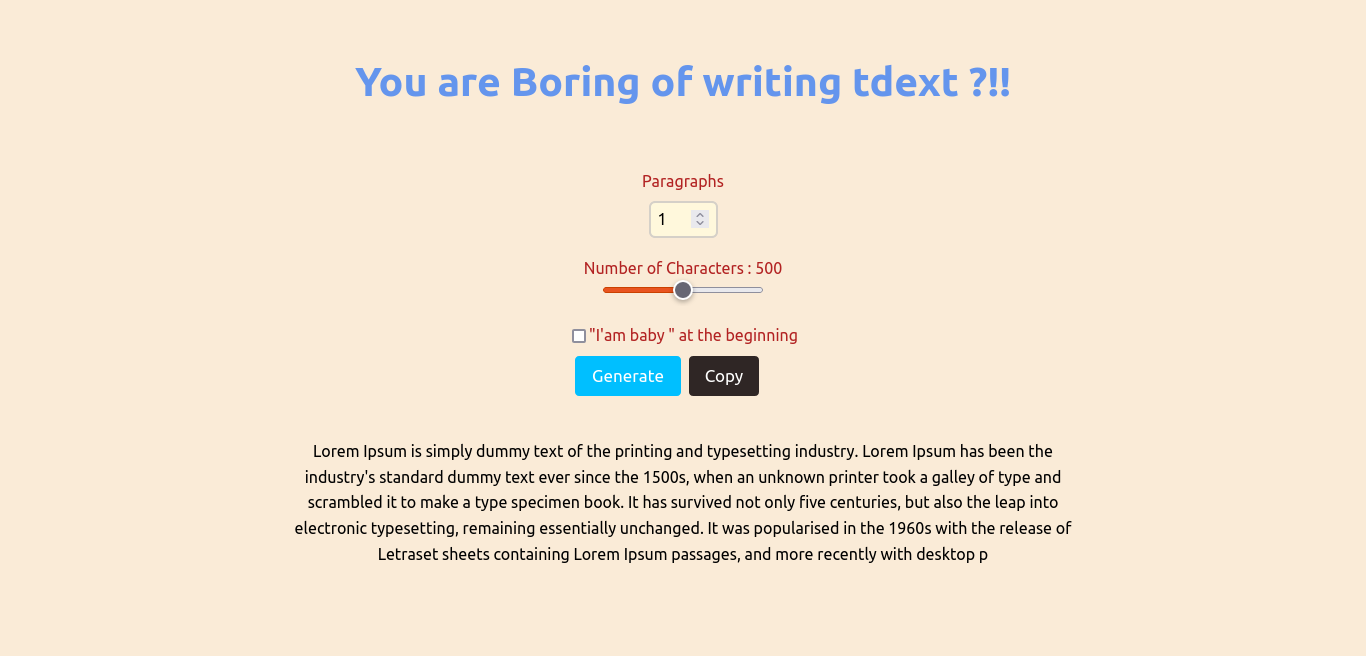
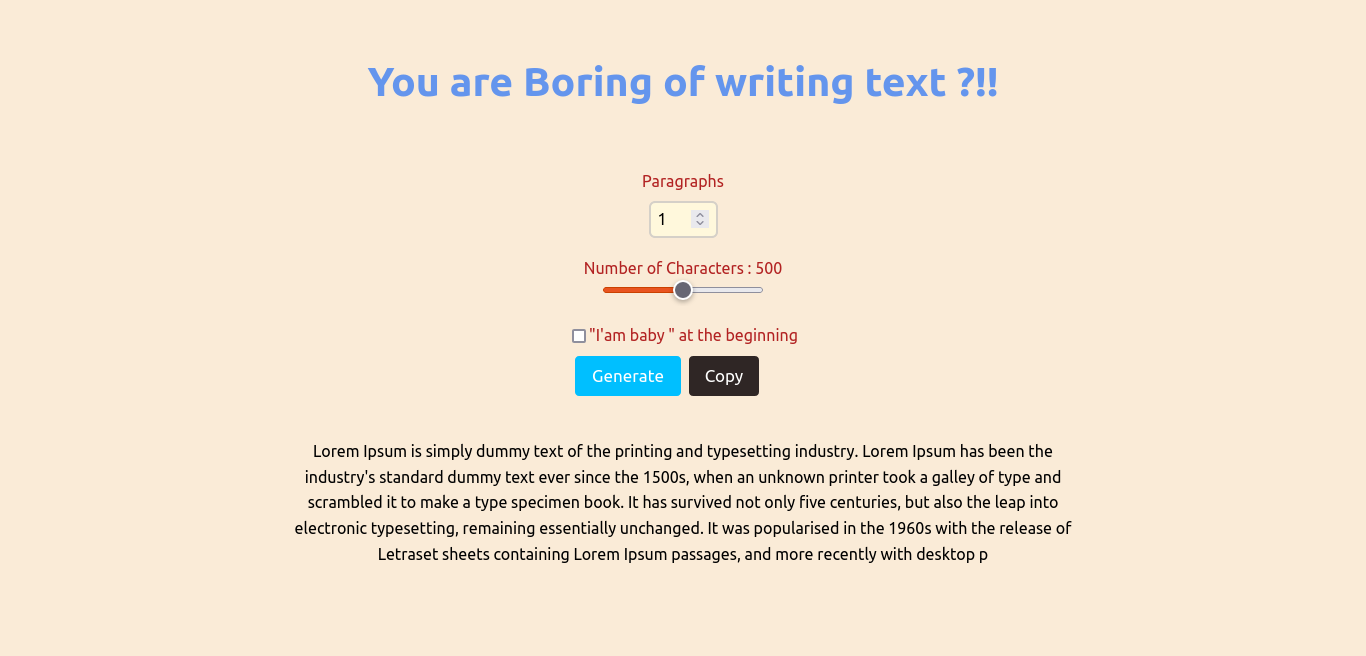
Result.png

Changed region(s): [[0.246, 0.0915, 0.7379, 0.1524]]

diff --git a/src/App.js b/src/App.js
@@ -29,7 +29,7 @@ function App() {
   return (
     <div className="App">
       <div className="title-page">
-        <h1>You are Boring of writing tdext ?!!</h1>
+        <h1>You are Boring of writing text ?!!</h1>
       </div>
       <form onSubmit={handleSumbit}>
         <label htmlFor="amount">Paragraphs</label>
